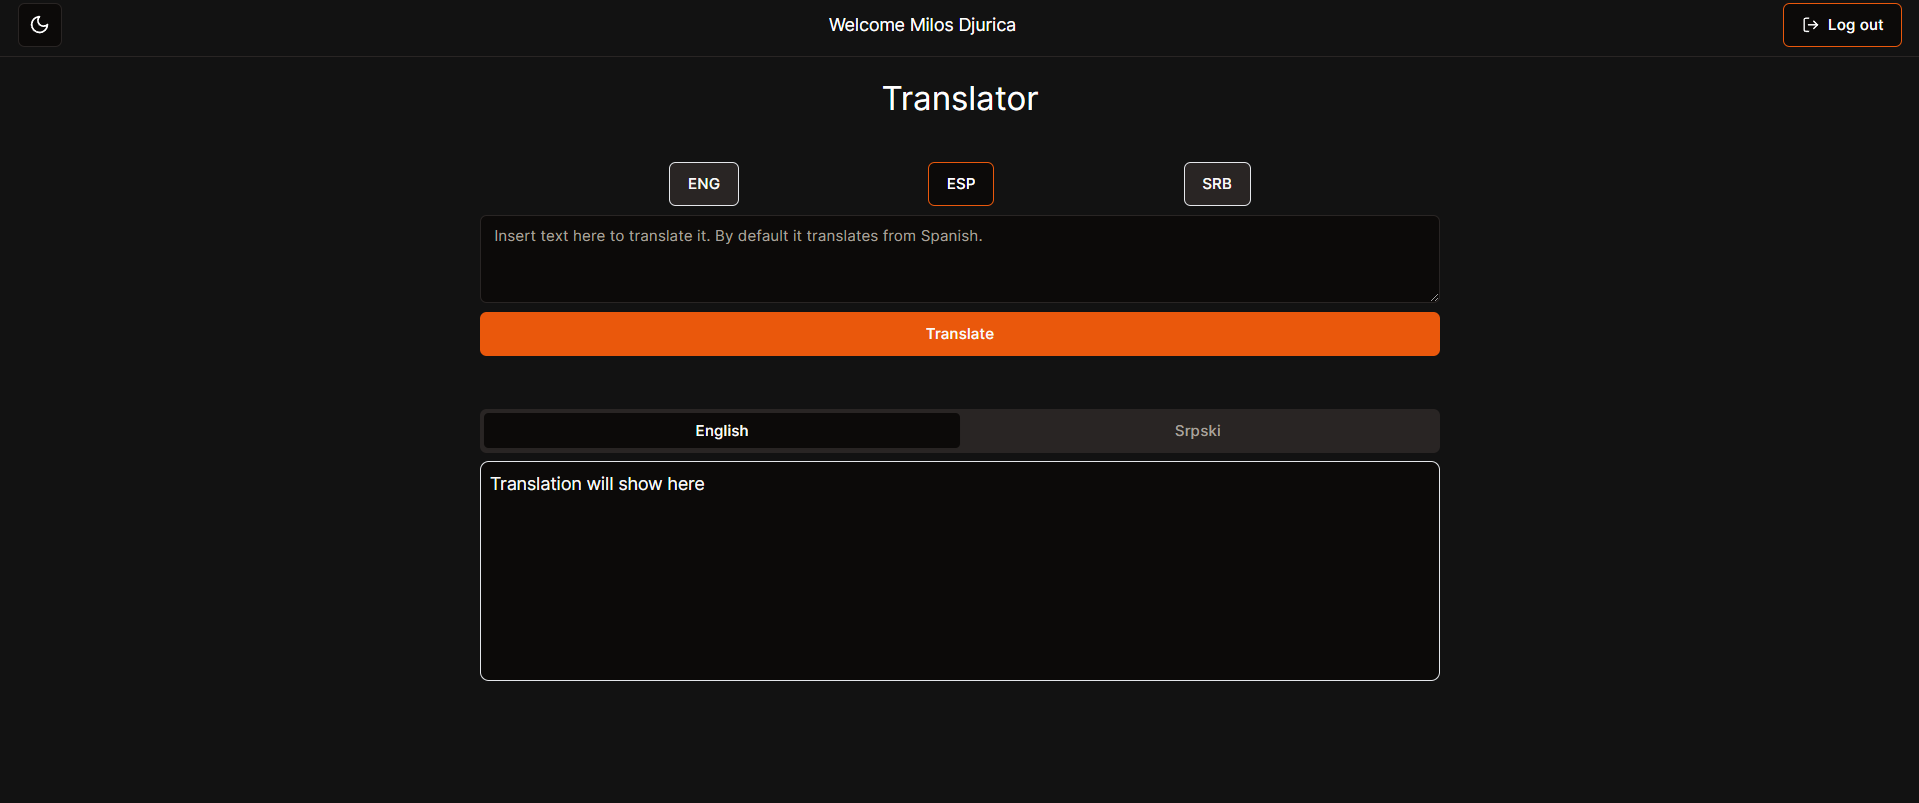
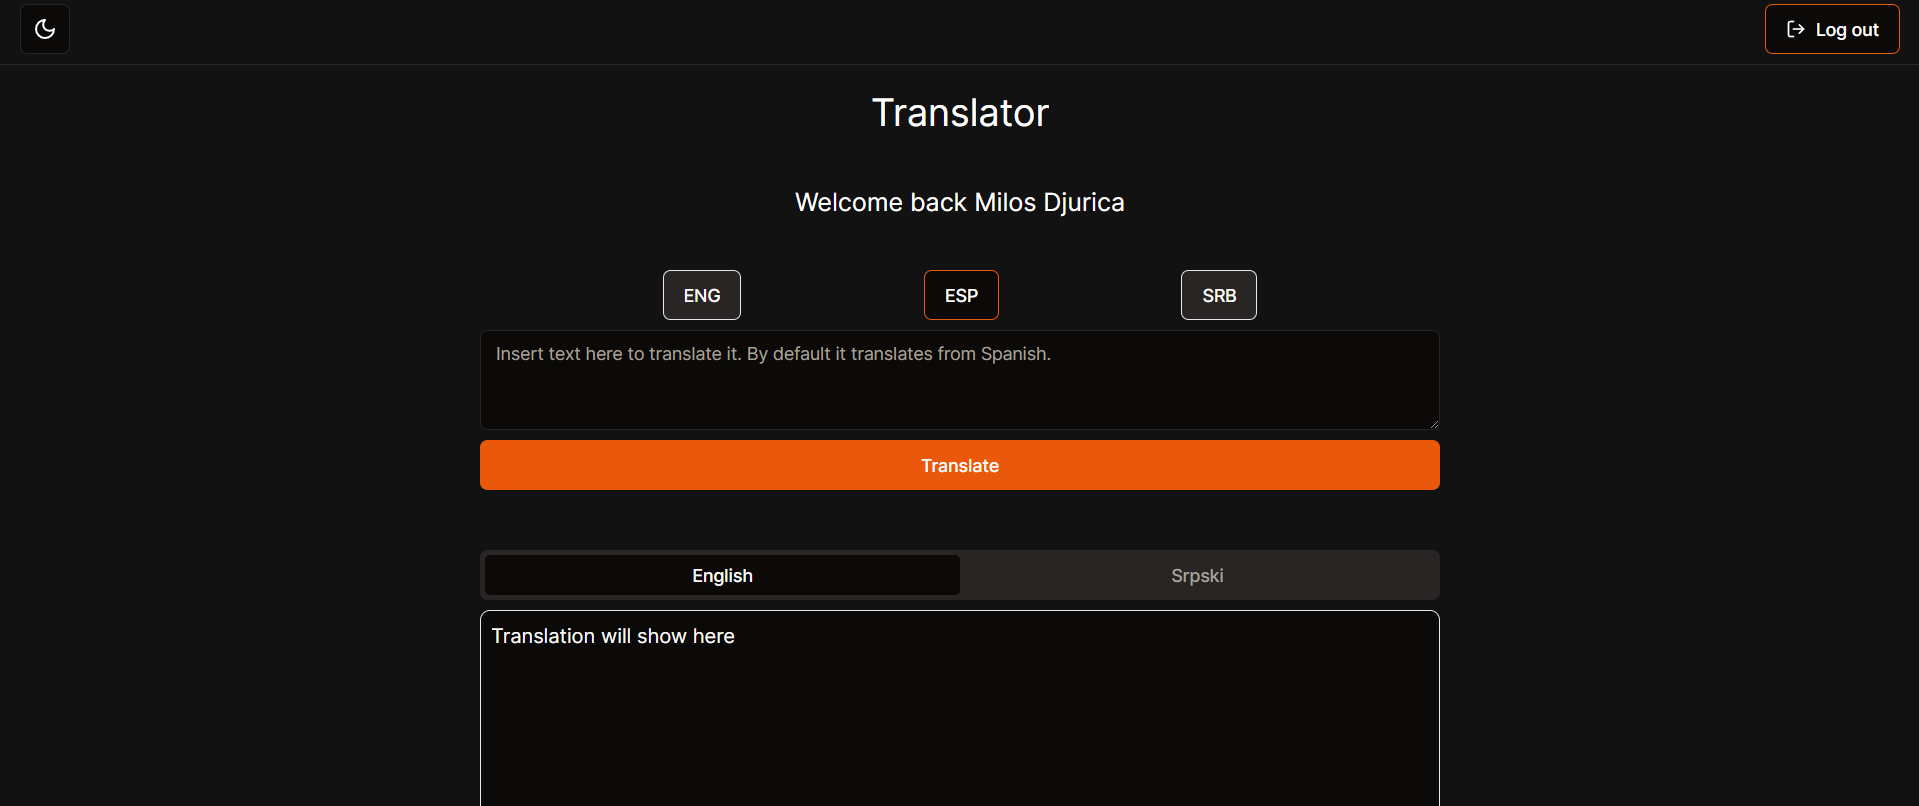
welcome text into the page and image for readme

diff --git a/src/app/page.tsx b/src/app/page.tsx
@@ -1,11 +1,18 @@
+"use client";
+
 import { TextareaWithButton } from "@/components/TextareaWithButton";
 import ChooseLanguage from "../components/ChooseLanguage";
 import TranslatedTexts from "@/components/TranslatedTexts";
+import { useSession } from "next-auth/react";
 
-export default async function Home() {
+export default function Home() {
+  const { data: session } = useSession();
   return (
     <div className="flex flex-col space-y-10 mt-5">
       <h1 className="text-3xl m-auto">Translator</h1>
+      <h3 className="text-center md:text-xl">
+        Welcome back {session?.user?.name || session?.user?.email}
+      </h3>
 
       <div className="w-[90%] md:w-3/4 lg:w-2/3 xl:w-1/2 m-auto mt-5 space-y-12">
         <div className="space-y-2">

diff --git a/src/components/Header.tsx b/src/components/Header.tsx
@@ -2,17 +2,14 @@
 
 import React from "react";
 import { ThemeSwitchButton } from "./ThemeSwitchButton";
-import { signOut, useSession } from "next-auth/react";
+import { signOut } from "next-auth/react";
 import { Button } from "./ui/button";
 import { LogOut } from "lucide-react";
 
 export default function Header() {
-  const { data: session } = useSession();
-
   return (
     <header className="flex justify-between px-4 py-2 items-center border-b border-border">
       <ThemeSwitchButton />
-      <h3>Welcome {session?.user?.name || session?.user?.email}</h3>
       <Button
         variant="outline"
         className="border border-primary"
